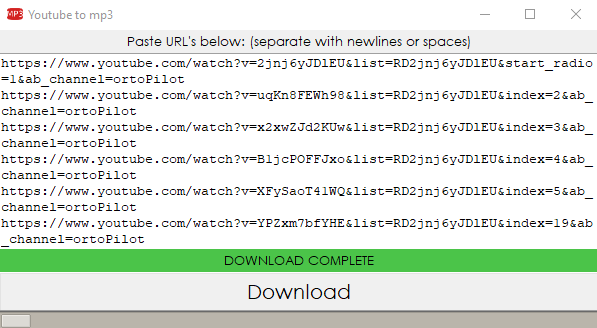
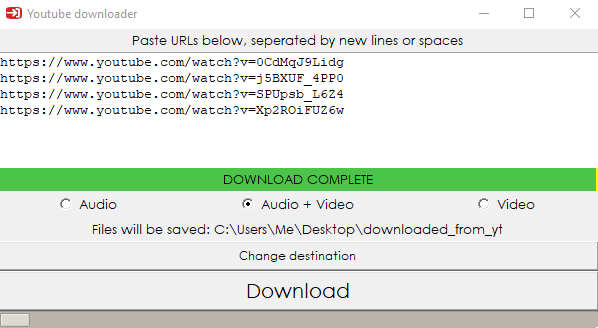
change name, update images & images

diff --git a/yt_to_mp3.py b/yt_to_mp3.py
@@ -91,7 +91,7 @@ def choose_destination():
 
 
 window = tk.Tk()
-window.title("Youtube to mp3")
+window.title("Youtube downloader")
 window.geometry('600x300')
 window.minsize(590,300)
 window.iconbitmap('Images\icon.ico')

diff --git a/README.md b/README.md
@@ -1,23 +1,34 @@
-# Youtube_to_mp3
+# Youtube_downloader
 
-A GUI program for easy downloading videos from youtube and saving them as mp3's <br />
+A GUI program for easy downloading videos from youtube<br />
 Made using python, pytube and tkinter. <br />
 
-## How to use?
-Just paste url's in the textbox, separated by spaces or new lines and click Download button  <br />
+## Prerequisites
 
-## Example:
-Running the program<br />
-<img src="Images\image0.png"/> <br />
-Clicking Download button without pasting any url's or pasting url's not from youtube videos will result in a message showing up "PASTE URL'S FROM YOUTUBE":  <br />
-<img src="Images\image-1.png"/> <br />
-Pasting url's and clicking Download button will result in a message showing up "DOWNLOADING..." and progress bar moving<br />
-<img src="Images\image1.png"/> <br />
-Files will be downloaded and saved into a directory named "downloaded files" in the same directory where program is located<br />
-<img src="Images\image3.png"/> <br />
+Make sure to have pytube and tkinter installed
 
-## Having errors when running the code?
-Make sure to have pytube and tkinter installed 
 <pre><code>pip install pytube 
 pip install tkinter 
 </code></pre>
+
+## How to use?
+
+Paste url's in the textbox, separated by spaces or new lines and click "Download" button.
+<br />
+By default Audio and Video will be downloaded, that can be changed by using radio buttons.
+<br />
+By default files will be saved on desktop in a folder "downloaded_from_yt", but that can be changed by clicking "Change destination" button.
+
+## Demonstration:
+
+<p align="center"> <img src="Images\image0.png"/></p>
+<p align="center">User interface</p>
+Clicking Download button without pasting any url's or pasting url's not from youtube videos will result in a message showing up "PASTE URL'S FROM YOUTUBE": <br /> <br />
+<p align="center"> <img src="Images\image-1.png"/></p>
+<p align="center">Clicking download without URL's</p>
+Pasting url's and clicking Download button will result in a message showing up "DOWNLOADING..." and progress bar moving<br /> <br />
+<p align="center"> <img src="Images\image1.png"/></p>
+<p align="center">Download in progress</p>
+Files will be downloaded and saved into a directory named "downloaded files" in the same directory where program is located<br /> <br />
+<p align="center"> <img src="Images\image3.png"/> <br /></p>
+<p align="center">Download complete</p>
